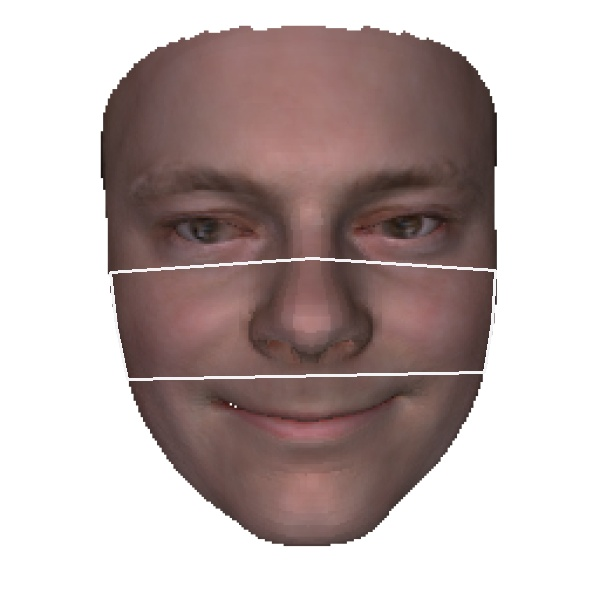
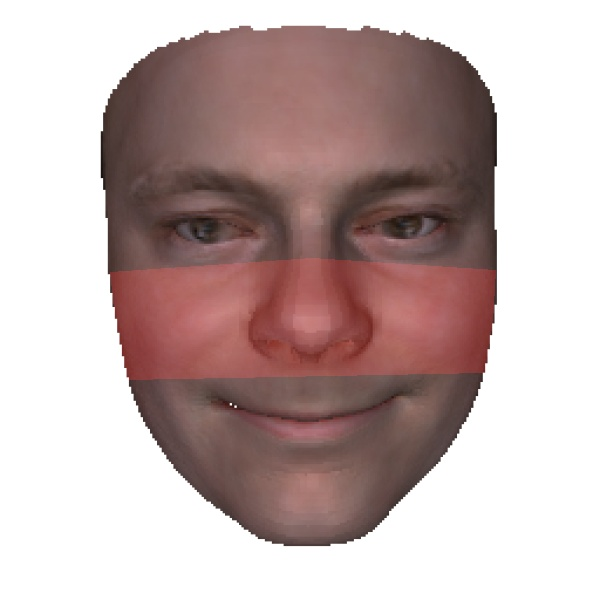
testes

Changed region(s): [[0.18, 0.42, 0.84, 0.66]]

diff --git a/src/runDetailsFace.py b/src/runDetailsFace.py
@@ -31,6 +31,9 @@ def drawRegiona(imagem, valores, label):
     overlay = img.copy()
     gray = cv2.cvtColor(img, cv2.COLOR_BGR2GRAY)
 
+    mask = np.zeros_like(img, np.uint8)
+    # mask = np.zeros((img.shape[0], img.shape[1]))
+
     detections = detector(gray, 0)
     for k,d in enumerate(detections):
         
@@ -42,13 +45,62 @@ def drawRegiona(imagem, valores, label):
             for i,j in enumerate(CHEEK_IDXS[name]): 
                 pts[i] = [shape.part(j).x, shape.part(j).y]
 
-            pts = pts.reshape((-1,1,2))
+            # pts = pts.reshape((-1,1,2))
             
-            cv2.polylines(overlay,[pts],True,(246,243,243),thickness = 2)
-            # cv2.fillPoly(overlay, pts=[pts], color=(246,243,243))
-        
+            # cv2.polylines(overlay,[pts],True,(246,243,243),thickness = 2)            
+            # cv2.fillPoly(overlay, pts=[pts], color=(180,0,0))
+            
+            
+            # Create output image (untranslated)
+            outClean = img.copy()
+            
+            # Create mask that defines the polygon of points
+            # Red
+            cv2.fillConvexPoly(mask, pts, (0, 0, 255))
+            # Blue
+            # cv2.fillConvexPoly(mask, pts, (255, 51, 51))
+            
+            alpha = 0.7
+            mascara = mask.astype(bool)
+            outClean[mascara] = cv2.addWeighted(img, alpha, mask, 1 - alpha, 0)[mascara]
+            
+            mask = mask > 0 # To convert to Boolean
+            
+            out = np.zeros_like(img)
+            out[mask] = img[mask]
+            
+            # Find centroid of polygon
+            (meanx, meany) = pts.mean(axis=0)
+
+            # Find centre of image
+            (cenx, ceny) = (img.shape[1]/2, img.shape[0]/2)
+            
+            # Make integer coordinates for each of the above
+            (meanx, meany, cenx, ceny) = np.floor([meanx, meany, cenx, ceny]).astype(np.int32)
+
+            # Calculate final offset to translate source pixels to centre of image
+            (offsetx, offsety) = (-meanx + cenx, -meany + ceny)
+
+            # Define remapping coordinates
+            (mx, my) = np.meshgrid(np.arange(img.shape[1]), np.arange(img.shape[0]))
+            ox = (mx - offsetx).astype(np.float32)
+            oy = (my - offsety).astype(np.float32)
+
+            # Translate the image to centre
+            out_translate = cv2.remap(out, ox, oy, cv2.INTER_LINEAR)
+
+            # Determine top left and bottom right of translated image
+            # topleft = pts.min(axis=0) + [offsetx, offsety]
+            # bottomright = pts.max(axis=0) + [offsetx, offsety]
+                        
+            # cv2.imshow('Output Image', out_translate)
+            # cv2.imshow('Output', outClean)
+            
+            cv2.imwrite('./img/' + nome[0] + '_' + str(listas[label]) + '_detail.jpg', outClean)
+            # cv2.waitKey(0)
+            # cv2.destroyAllWindows()
+                    
         # cv2.imshow("Image", overlay)
-        cv2.imwrite('./img/' + nome[0] + '_' + str(listas[label]) + '_detail.jpg', overlay)
 
 
 if __name__ == '__main__':
@@ -69,5 +121,7 @@ if __name__ == '__main__':
             if 'detail' not in l:
 
                 drawRegiona(l, j, i)
+             
+        #     break
                 
         # break
